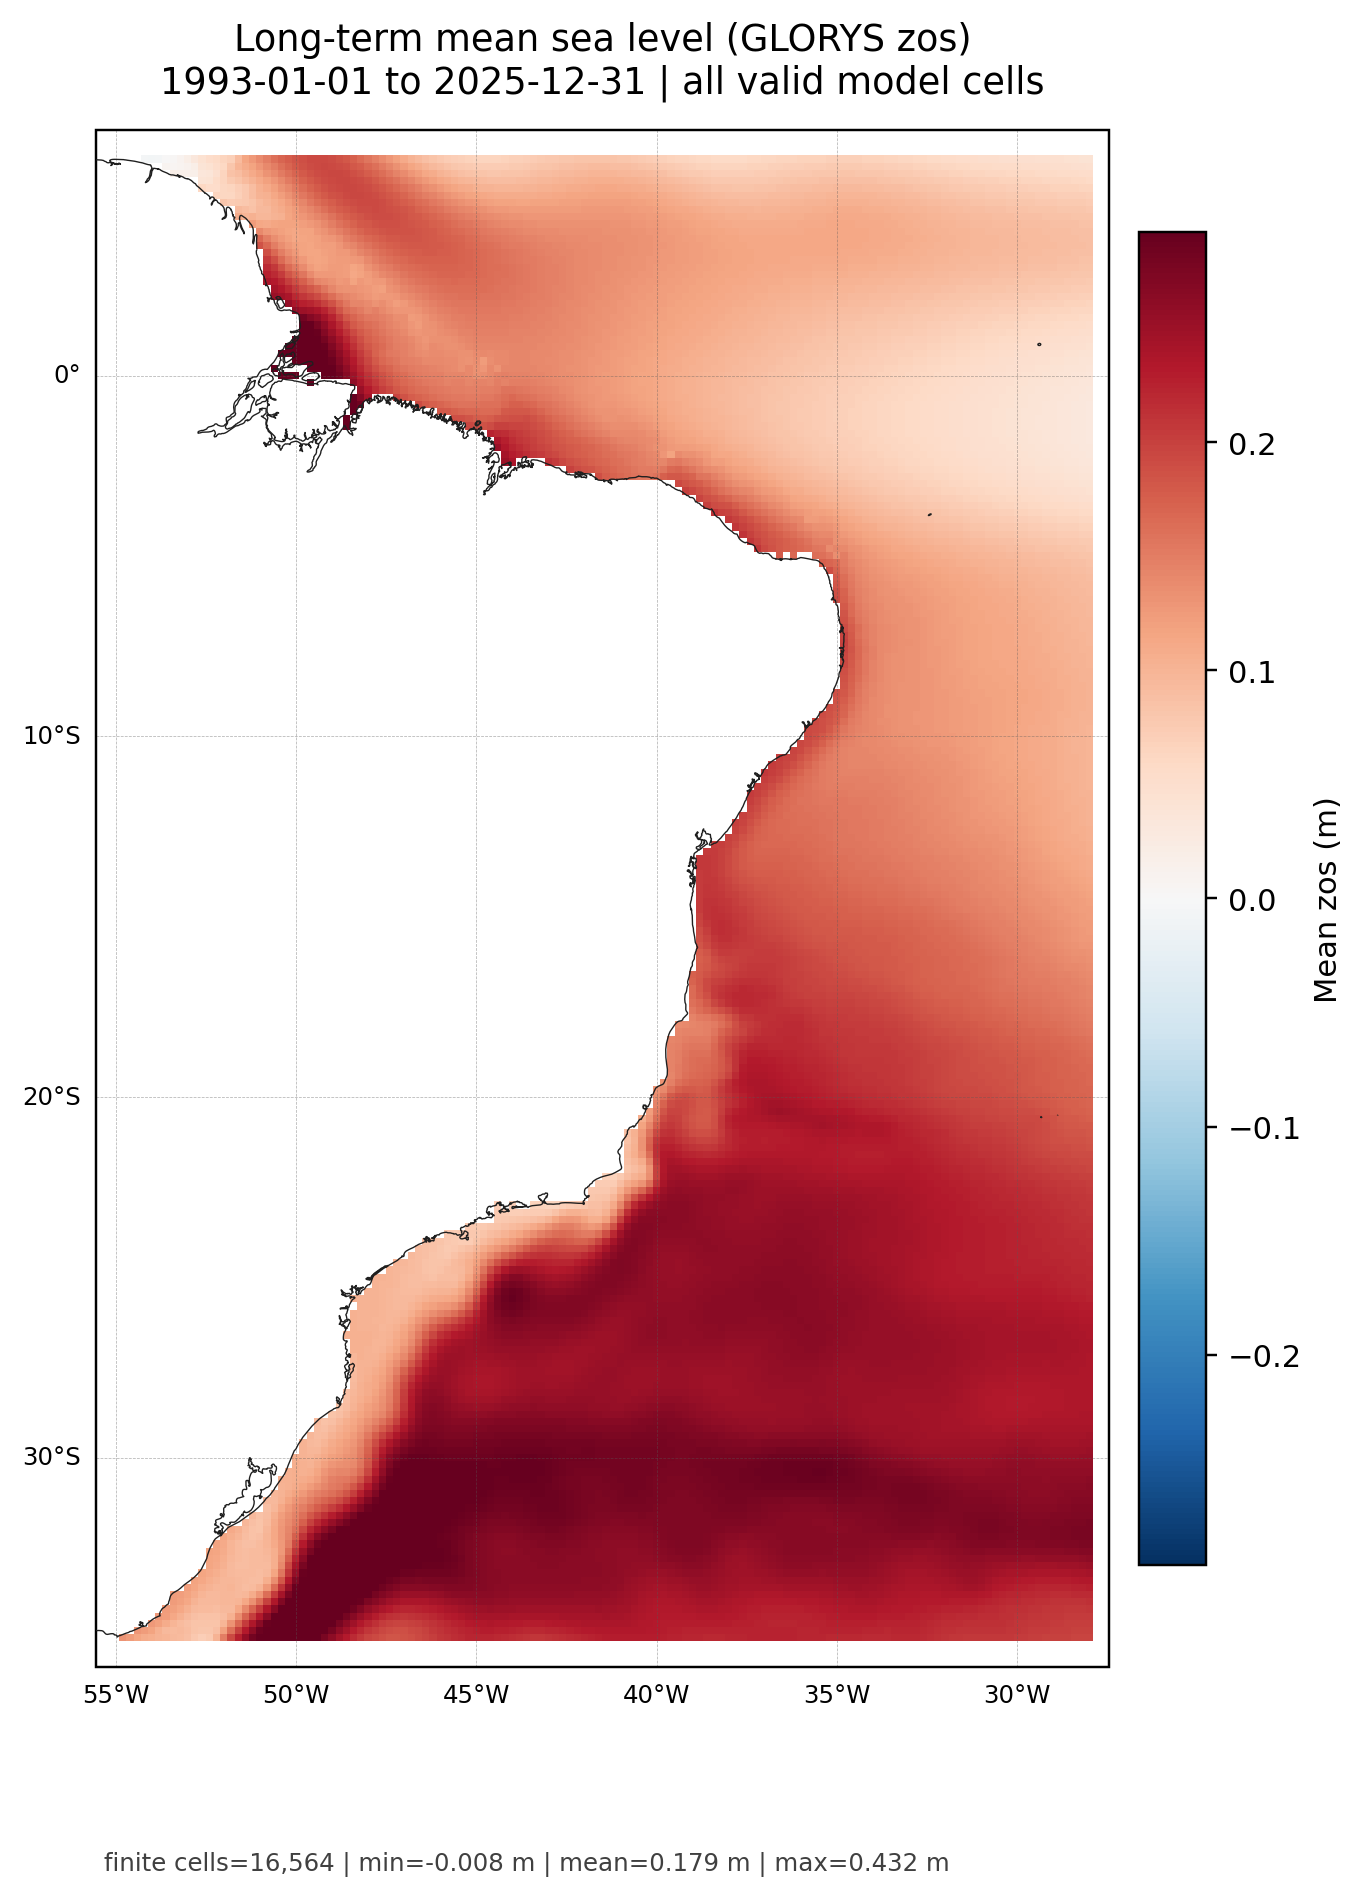
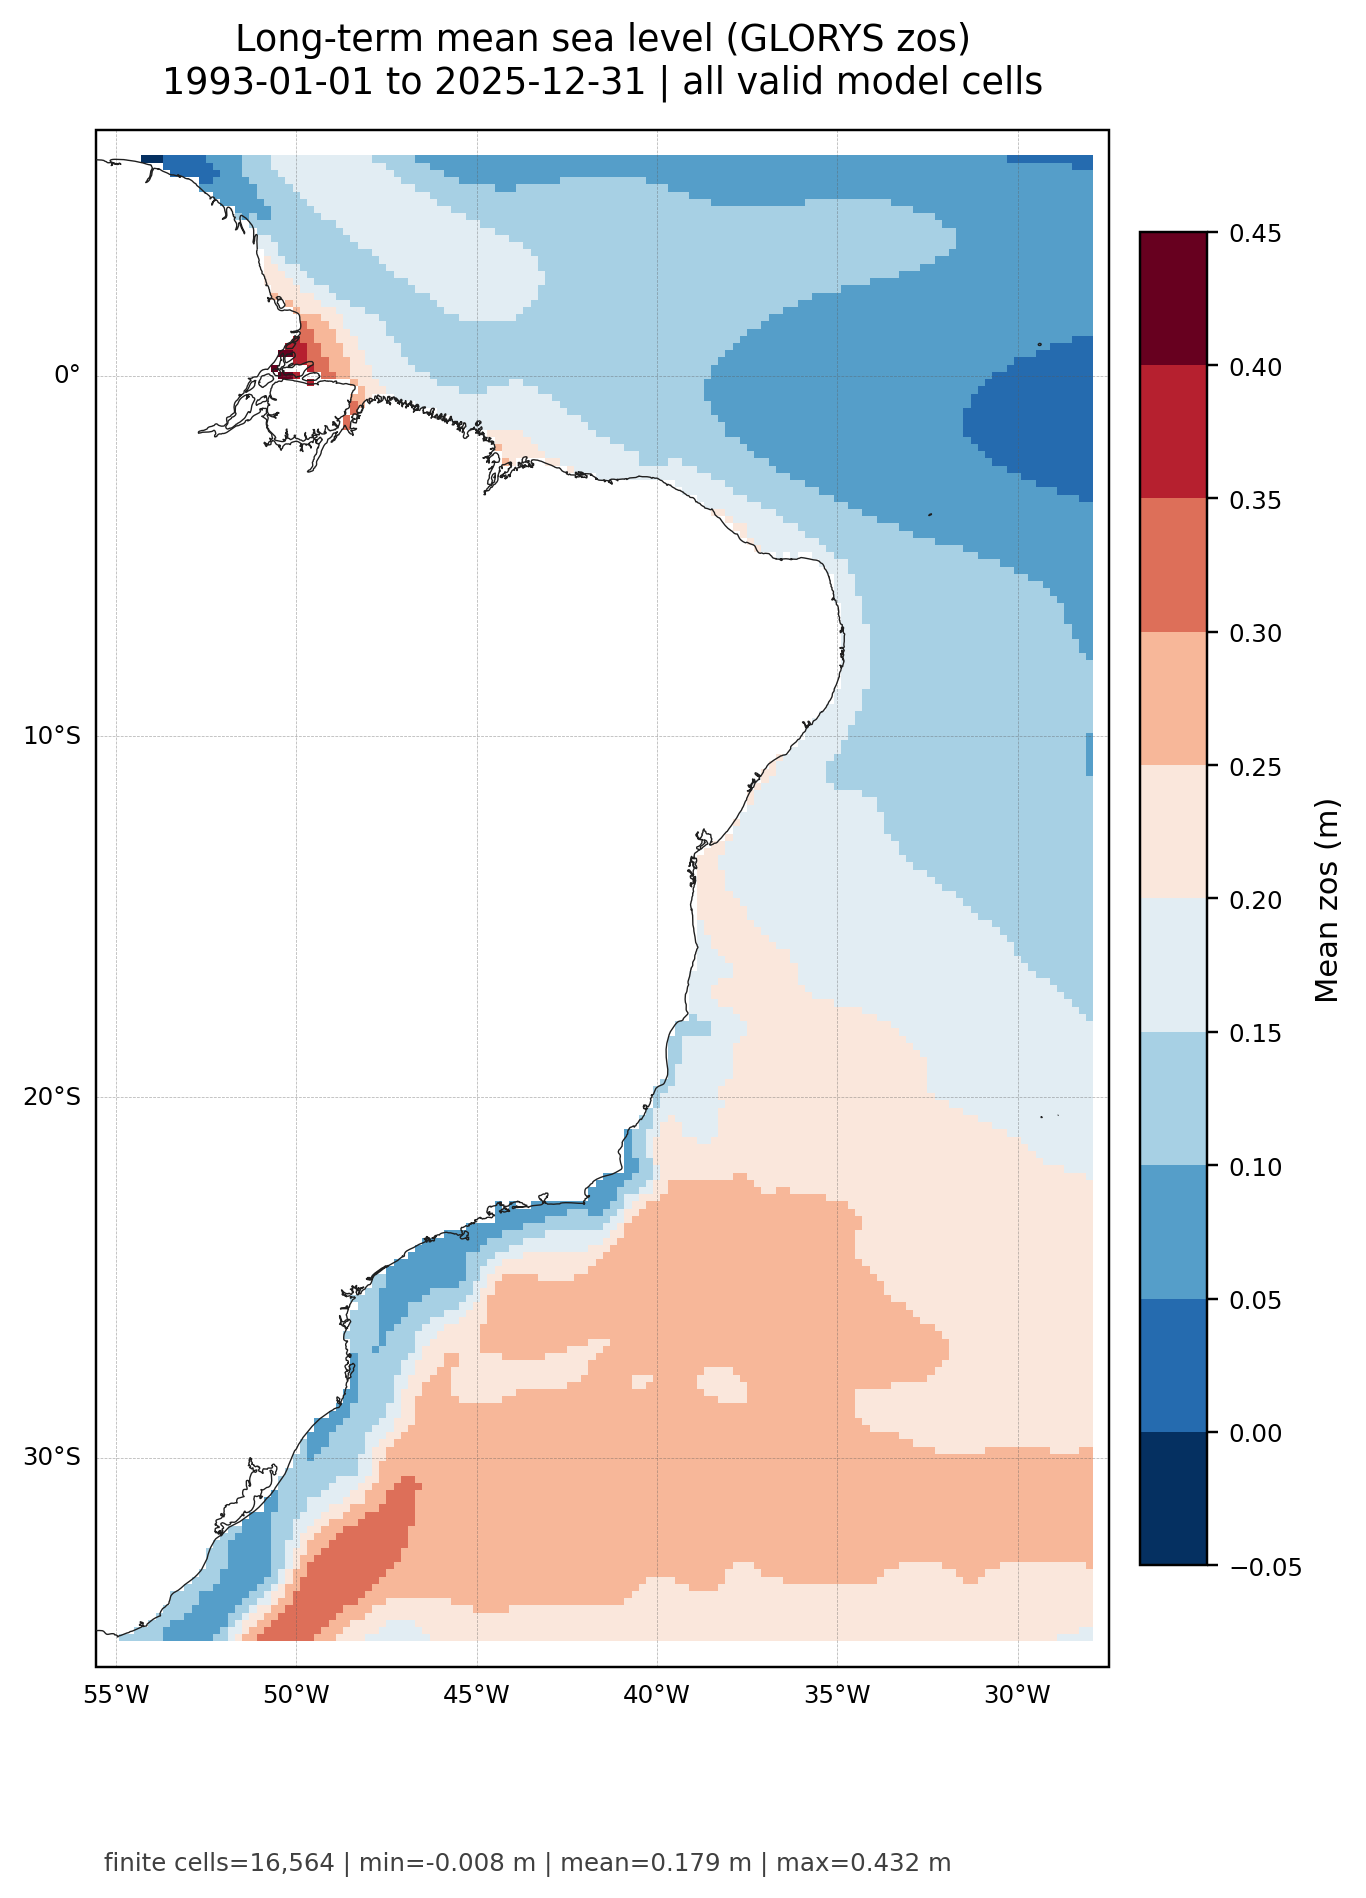
Use discrete color intervals for mean ZOS quicklook

diff --git a/src/exploratory/longterm_mean_zos_map.py b/src/exploratory/longterm_mean_zos_map.py
@@ -18,13 +18,14 @@ matplotlib.use("Agg")
 import matplotlib.pyplot as plt
 import numpy as np
 import xarray as xr
-from matplotlib.colors import TwoSlopeNorm
+from matplotlib.colors import BoundaryNorm
 
 
 ROOT = Path(__file__).resolve().parents[2]
 DEFAULT_INPUT = ROOT / "data/unified/metocean_brazil_unified_waverys_grid.nc"
 DEFAULT_OUTPUT_DIR = ROOT / "outputs/monthly_quicklook_brazil_all"
 DEFAULT_COASTLINE = ROOT / "data/ne_10m_coastline/ne_10m_coastline.shp"
+COLOR_INTERVAL = 0.05
 
 
 def parse_args() -> argparse.Namespace:
@@ -72,10 +73,14 @@ def plot_mean_map(
     if finite.size == 0:
         raise ValueError("No finite values available to plot.")
 
-    vmax = float(np.nanpercentile(np.abs(finite), 98))
-    if np.isclose(vmax, 0.0):
-        vmax = float(np.nanmax(np.abs(finite)))
-    norm = TwoSlopeNorm(vmin=-vmax, vcenter=0.0, vmax=vmax)
+    vmin = np.floor(float(np.nanmin(finite)) / COLOR_INTERVAL) * COLOR_INTERVAL
+    vmax = np.ceil(float(np.nanmax(finite)) / COLOR_INTERVAL) * COLOR_INTERVAL
+    if np.isclose(vmin, vmax):
+        vmin -= COLOR_INTERVAL
+        vmax += COLOR_INTERVAL
+    boundaries = np.arange(vmin, vmax + COLOR_INTERVAL * 0.5, COLOR_INTERVAL)
+    cmap = plt.get_cmap("RdBu_r", len(boundaries) - 1)
+    norm = BoundaryNorm(boundaries, cmap.N)
 
     crs = ccrs.PlateCarree()
     fig = plt.figure(figsize=(7.2, 9.6))
@@ -86,7 +91,7 @@ def plot_mean_map(
         values,
         transform=crs,
         shading="auto",
-        cmap="RdBu_r",
+        cmap=cmap,
         norm=norm,
     )
 
@@ -127,8 +132,17 @@ def plot_mean_map(
     grid.xlabel_style = {"size": 8}
     grid.ylabel_style = {"size": 8}
 
-    colorbar = fig.colorbar(mesh, ax=ax, orientation="vertical", pad=0.025, shrink=0.82)
+    colorbar = fig.colorbar(
+        mesh,
+        ax=ax,
+        orientation="vertical",
+        pad=0.025,
+        shrink=0.82,
+        ticks=boundaries,
+        spacing="proportional",
+    )
     colorbar.set_label("Mean zos (m)")
+    colorbar.ax.tick_params(labelsize=8)
 
     period = mean_zos.attrs.get("period", "")
     ax.set_title(
